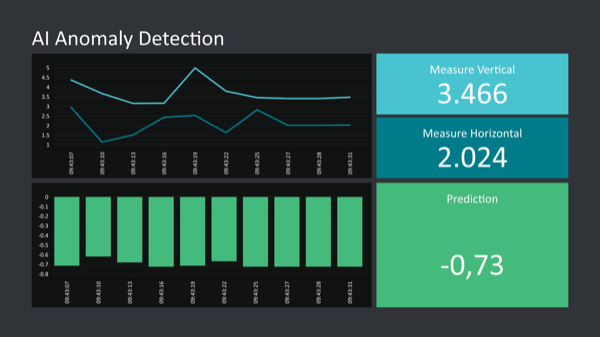
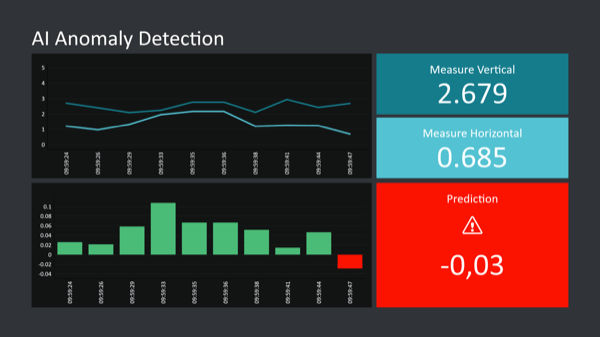
Working version of Paiqo AI template

diff --git a/_templates/AI-Anomaly-Detection/index.md b/_templates/AI-Anomaly-Detection/index.md
@@ -19,6 +19,6 @@ overview_data_sources:
 ---
 # so funktioniert's
 
-Dieses Template verwendet ein AI Modell der Firma Paiqo. Dieses Modell läuft in der Azure Cloud.
+Dieses Template verwendet ein AI Modell der Firma [Paiqo](https://paiqo.com/de/). Dieses Modell läuft in der Azure Cloud.
 
-Es werden 2 Messwerte simuliert mit einem Script und an das Modell gesendet. Sobald das Modell die Werte erhält kalkuliert es die Wahrscheinlichkeit für einen Ausfall und gibt diesen Wert an das Board zurück. Dies wird dann angezeigt und hilft, schnell Probleme zu erkennen und frühzeitig zu reagieren um Fehlteile, die außerhalb der Toleranz sind, komplett zu vermeiden.
+Es werden 2 Messwerte simuliert mit einem Script und an das Modell gesendet. In einem realen Szenario wären dies zwei Werte von Sensonren. Sobald das Modell die Werte erhält kalkuliert es die Wahrscheinlichkeit für einen Ausfall und gibt diesen Wert an das Board zurück. Dies wird dann angezeigt und hilft, schnell Probleme zu erkennen und frühzeitig zu reagieren um Fehlteile, die außerhalb der Toleranz sind, komplett zu vermeiden.

diff --git a/_templates/AI-Anomaly-Detection/en.md b/_templates/AI-Anomaly-Detection/en.md
@@ -19,6 +19,6 @@ overview_data_sources:
 ---
 # how it works
 
-This template uses an AI model from Paiqo. This model runs in the Azure cloud. 
+This template uses an AI model from [Paiqo](https://paiqo.com/de/). This model runs in the Azure cloud. 
 
-Two measured values are simulated with a script and sent to the model. As soon as the model receives the values, it calculates the probability of failure and returns this value to the board. This is then displayed and helps to identify problems quickly and to react early in order to completely avoid missing parts that are outside the tolerance.
+Two measured values are simulated with a script and sent to the model. In a real scenario a sensor would deliver these values. As soon as the model receives the values, it calculates the probability of failure and returns this value to the board. This is then displayed and helps to identify problems quickly and to react early in order to completely avoid missing parts that are outside the tolerance.
